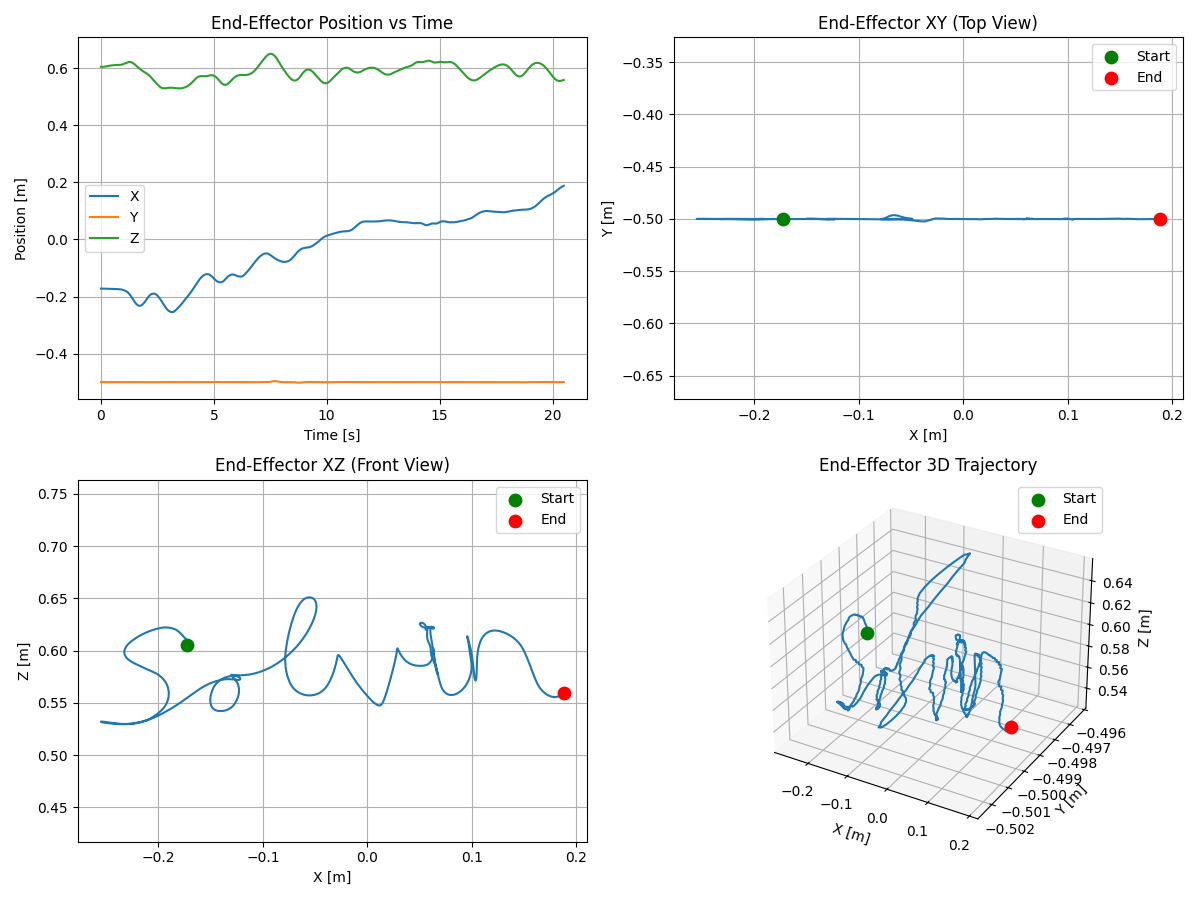
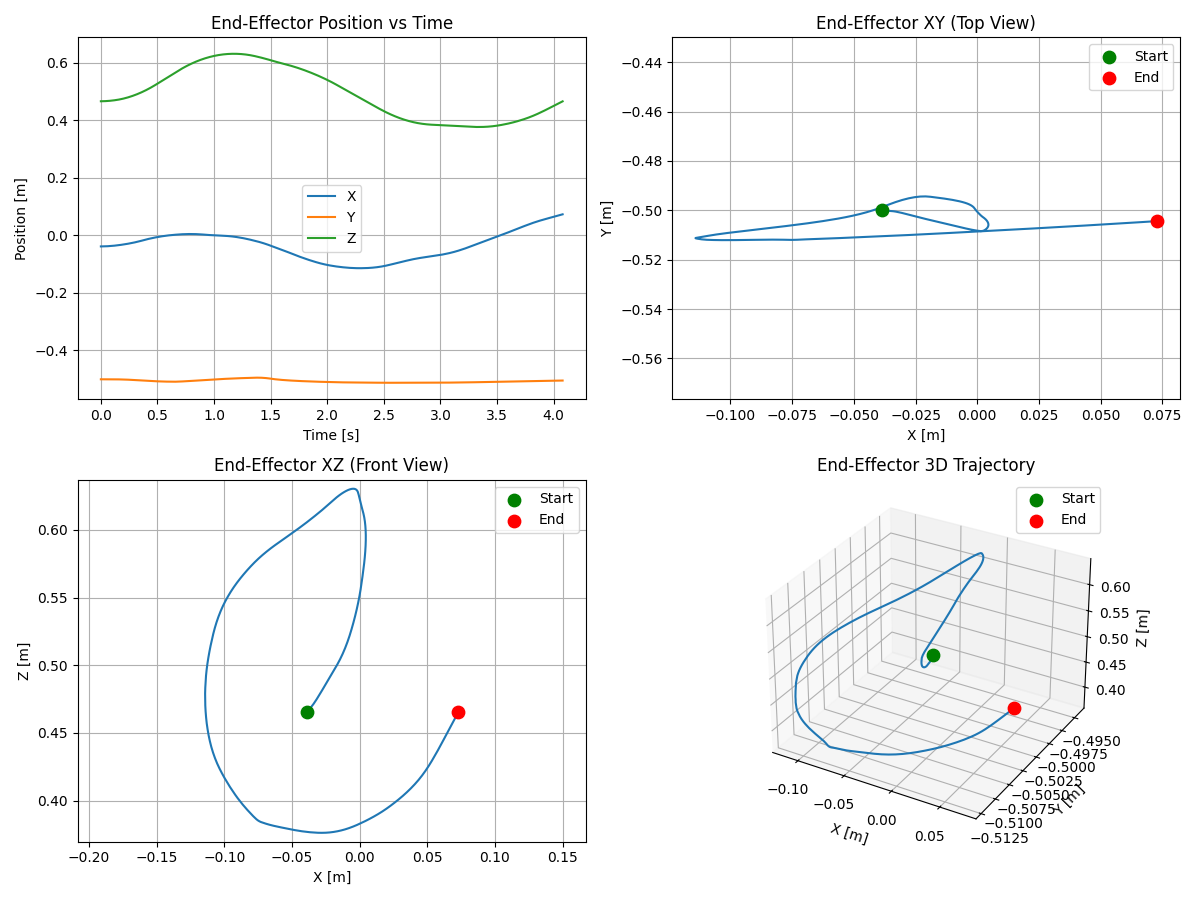
fixed ik solve in tracking

diff --git a/src/tracking.py b/src/tracking.py
@@ -72,23 +72,6 @@ class MediaPipeHandTracker:
         self.trail_points.clear()
 
     def normalized_to_scaled_xy(self, x_norm, y_norm):
-        """
-        Webcam frame:
-            x_norm: left -> right
-            y_norm: top -> bottom
-
-        Robot base frame:
-            +x forward
-            +y left
-            +z up
-
-        Mapping for ZY plane:
-            screen horizontal -> robot y
-            screen vertical   -> robot z
-
-        We flip horizontal so moving hand LEFT on the mirrored webcam
-        corresponds to +y (left of robot base).
-        """
         x_scaled = (x_norm - 0.5) * self.x_span_m
         y_scaled = (0.5 - y_norm) * self.y_span_m
         print(x_scaled, y_scaled)
@@ -184,16 +167,7 @@ class MediaPipeHandTracker:
         if draw:
             cv2.putText(
                 frame,
-                "screen-x -> robot y | screen-y -> robot z",
-                (20, h - 45),
-                cv2.FONT_HERSHEY_SIMPLEX,
-                0.6,
-                (200, 200, 200),
-                2
-            )
-            cv2.putText(
-                frame,
-                f"Y span = {self.x_span_m:.2f} m | Z span = {self.y_span_m:.2f} m",
+                f"X span = {self.x_span_m:.2f} m | Y span = {self.y_span_m:.2f} m",
                 (20, h - 20),
                 cv2.FONT_HERSHEY_SIMPLEX,
                 0.6,
@@ -239,8 +213,8 @@ class GUI:
 
         self.MAX_LIVE_SAMPLES = 500
         self.live_t = deque(maxlen=self.MAX_LIVE_SAMPLES)
+        self.live_x = deque(maxlen=self.MAX_LIVE_SAMPLES)
         self.live_y = deque(maxlen=self.MAX_LIVE_SAMPLES)
-        self.live_z = deque(maxlen=self.MAX_LIVE_SAMPLES)
 
         self._stream_thread_running = False
         self._stream_thread = None
@@ -374,8 +348,8 @@ class GUI:
         self.ax_live = self.fig.add_subplot(2, 1, 1)
         self.ax_traj = self.fig.add_subplot(2, 1, 2, projection="3d")
 
-        self.line_live_y, = self.ax_live.plot([], [], label="robot y")
-        self.line_live_z, = self.ax_live.plot([], [], label="robot z")
+        self.line_live_x, = self.ax_live.plot([], [], label="hand x")
+        self.line_live_y, = self.ax_live.plot([], [], label="hand y")
 
         self.ax_live.set_title("Live Hand-Mapped Robot Coordinates")
         self.ax_live.set_xlabel("Time (s)")
@@ -718,20 +692,9 @@ class GUI:
         ax.set_ylim(ymid - r, ymid + r)
         ax.set_zlim(zmid - r, zmid + r)
 
-    def _pose_to_joint_angles(self, position, orientation):
-        # return np.array([0,0,0,0,0,0])
-        """
-        Ignore orientation for drawing.
+    def _pose_to_joint_angles(self, position):
 
-        position is a local drawing displacement:
-            [0, dy, dz]
-
-        The final IK target:
-        - uses workspace_offset translation as the origin
-        - keeps base x fixed
-        - moves only in base y and z
-        - uses identity orientation
-        """
+        # Return previous IK angles if new position is close enough to previous
         if self._last_valid_joints is not None:
             pos_change = np.linalg.norm(position - self._last_ik_pos)
             if pos_change < 0.001:
@@ -740,40 +703,9 @@ class GUI:
         self._last_ik_pos = position.copy()
         self._last_ik_ori = np.zeros(3, dtype=float)
 
-        try:
-            T = self.local_pose_to_base_transform(position, None)
-            T[:3, :3] = utils.rot_x(-np.pi/2 + 0.05)[:3,:3]
-            # print("THAT T")
-            # print(T)
-
-            candidates = []
-            for sol_type in ("elbow_up", "elbow_down", "elbow_up_2", "elbow_down_2"):
-                try:
-                    sol = self._ik_robot.IK(sol_type, T)
-                    if not np.any(np.isnan(sol)):
-                        candidates.append(sol)
-                except Exception:
-                    continue
-
-            if not candidates:
-                return None
-
-            if self._last_valid_joints is None:
-                return candidates[0]
-
-            best = None
-            best_dist = np.inf
-            for c in candidates:
-                delta = (c - self._last_valid_joints + np.pi) % (2 * np.pi) - np.pi
-                dist = np.linalg.norm(delta)
-                if dist < best_dist:
-                    best_dist = dist
-                    best = c
-
-            return best
-
-        except Exception:
-            return None
+        T = self.local_pose_to_base_transform(position)
+        joints = self._ik_robot.IK("elbow_up", T)
+        return joints
 
     def _ensure_tracker(self):
         if self.hand_tracker is None:
@@ -819,7 +751,7 @@ class GUI:
         orientation_local = np.zeros(3, dtype=float)
         return position_local, orientation_local
 
-    def local_pose_to_base_transform(self, position_local, orientation_local=None):
+    def local_pose_to_base_transform(self, position_local):
         """
         Ignore workspace orientation for drawing motion.
 
@@ -843,8 +775,8 @@ class GUI:
 
         return T_target
 
-    def local_pose_to_base_position(self, position_local, orientation_local=None):
-        T_base = self.local_pose_to_base_transform(position_local, orientation_local)
+    def local_pose_to_base_position(self, position_local):
+        T_base = self.local_pose_to_base_transform(position_local)
         return T_base[:3, 3].copy()
 
     def record_trajectory(self):
@@ -864,8 +796,8 @@ class GUI:
 
         with self.state_lock:
             self.live_t.clear()
+            self.live_x.clear()
             self.live_y.clear()
-            self.live_z.clear()
 
         while self.running:
             elapsed = time.time() - start_wall
@@ -894,7 +826,7 @@ class GUI:
                 continue
 
             position_local, orientation_local = self.local_hand_pose_from_tracking(pos_zy)
-            position_base = self.local_pose_to_base_position(position_local, orientation_local)
+            position_base = self.local_pose_to_base_position(position_local)
 
             raw_times.append(elapsed)
             positions.append(position_base)
@@ -902,8 +834,8 @@ class GUI:
 
             with self.state_lock:
                 self.live_t.append(elapsed)
-                self.live_y.append(position_local[1])
-                self.live_z.append(position_local[2])
+                self.live_x.append(position_local[0])
+                self.live_y.append(position_local[0])
 
         try:
             cv2.destroyWindow("MediaPipe Hand Tracker")
@@ -949,8 +881,8 @@ class GUI:
 
         with self.state_lock:
             self.live_t.clear()
+            self.live_x.clear()
             self.live_y.clear()
-            self.live_z.clear()
 
         start_wall = time.time()
 
@@ -996,15 +928,15 @@ class GUI:
                 t_live = time.time() - start_wall
 
                 position, orientation = self.local_hand_pose_from_tracking(pos_zy)
-                position_base = self.local_pose_to_base_position(position, orientation)
+                position_base = self.local_pose_to_base_position(position)
 
                 with self.state_lock:
                     self.live_t.append(t_live)
-                    self.live_y.append(position[1])   # local y displacement
-                    self.live_z.append(position[2])   # local z displacement
+                    self.live_x.append(position[0])  
+                    self.live_y.append(position[1])  
 
                 if stream_count == 0:
-                    joints = self._pose_to_joint_angles(position, orientation)
+                    joints = self._pose_to_joint_angles(position)
                     if joints is None:
                         joints = self._ik_robot.get_initial_pose()
                     self._last_valid_joints = joints.copy()
@@ -1016,7 +948,7 @@ class GUI:
                 if stream_count < self._ik_warmup_samples:
                     joints = self._last_valid_joints.copy()
                 else:
-                    joints = self._pose_to_joint_angles(position, orientation)
+                    joints = self._pose_to_joint_angles(position)
                     if joints is not None:
                         self._last_valid_joints = joints.copy()
                     else:
@@ -1138,8 +1070,8 @@ class GUI:
     def update_plots(self, frame):
         with self.state_lock:
             lt = list(self.live_t)
+            lx = list(self.live_x)
             ly = list(self.live_y)
-            lz = list(self.live_z)
 
             traj_ready = self.trajectory_ready
             replay_enabled = self.replay_enabled
@@ -1151,14 +1083,14 @@ class GUI:
             t0 = lt[0]
             tp = [x - t0 for x in lt]
 
+            self.line_live_x.set_data(tp, lx)
             self.line_live_y.set_data(tp, ly)
-            self.line_live_z.set_data(tp, lz)
 
             xmin = tp[0]
             xmax = tp[-1] if tp[-1] > 1.0 else 1.0
             self.ax_live.set_xlim(xmin, xmax)
 
-            vals = ly + lz
+            vals = lx + ly
             ymin = min(vals)
             ymax = max(vals)
             if ymin == ymax:
@@ -1166,8 +1098,8 @@ class GUI:
                 ymax += 0.1
             self.ax_live.set_ylim(ymin - 0.05, ymax + 0.05)
         else:
+            self.line_live_x.set_data([], [])
             self.line_live_y.set_data([], [])
-            self.line_live_z.set_data([], [])
 
         if traj_ready and len(traj_t) >= 2 and len(traj_p) >= 2:
             if replay_enabled:
@@ -1198,8 +1130,8 @@ class GUI:
         self.canvas.draw_idle()
 
         return (
+            self.line_live_x,
             self.line_live_y,
-            self.line_live_z,
             self.traj_line,
             self.traj_point
         )
